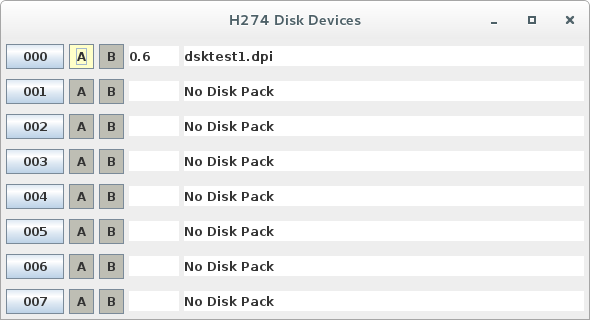
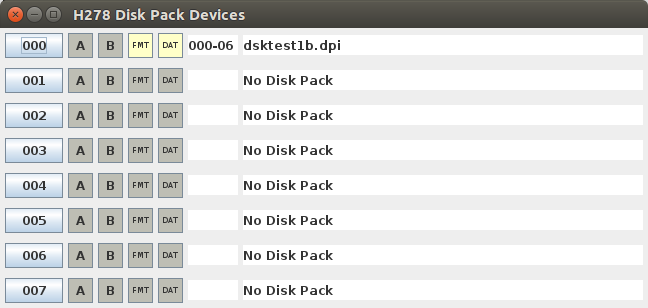
More corrections in disk docs

Changed region(s): [[0.0, 0.0, 1.0, 1.0]]

diff --git a/hw2000/docs/h274disks.html b/hw2000/docs/h274disks.html
@@ -16,6 +16,13 @@ Some details are lacking regarding various command specifics.
 and raised to the top, using the Front Panel menu "I/O" and selecting Disks.
 Closing the window only hides it, having no effect on the operation of the drives.
 
+<P>A full set of PERMIT buttons is provided for each drive: "A", "B",
+"FMT" (format), and "DAT" (data). The buttons toggle when clicked,
+illuminated means PERMIT writing. FMT allows formatting of tracks.
+DAT allows writing of data records on tracks. A and B allow
+finer-grained control over writing of records that were formatted
+with A/B flags.
+
 <P>Due to lack of detailed information about these devices,
 the following has been assumed until more information is available:
 <UL>
@@ -30,12 +37,24 @@ the address register and read/write data only.
 <LI>SEARCH AND READ/WRITE NEXT commmands will increment the record number and
 locate the record identified in
 the address register and read/write data only.
+This variation of the command will follow Track Linking Records automatically.
 <LI>EXTENDED versions operate on more than one record, governed by the
 size of the buffer (RM in memory). This variation of the command, in the case
 of SEARCH AND versions, will follow Track Linking Records automatically.
+Termination of command variations is as follow:
+<UL><TABLE BORDER>
+<TR><TH>Command</TH><TH>Normal Termination</TH><TH>EXTENDED Termination</TH></TR>
+<TR><TD>READ/WRITE</TD><TD>Record or RM</TD><TD>End of Track or RM</TD></TR>
+<TR><TD>READ/WRITE INITIAL</TD><TD>Record or RM</TD><TD>End of Track or RM</TD></TR>
+<TR><TD>SEARCH READ/WRITE</TD><TD>Record or RM</TD><TD>Error or RM*</TD></TR>
+<TR><TD>SEARCH READ/WRITE NEXT</TD><TD>Record or RM*</TD><TD>Error or RM*</TD></TR>
+</TABLE></UL> * Command Follows TLR. Others return TLR as data.
 <LI>A transfer of 0 characters,
 with no error indicated, implies that
 there are no more records in the cylinder (end of TLR chain).
+This may be a false-positive, it is likely that EOF had to be manually
+indicated by the data (i.e. a "&#9633;EOD&#162;" item indicated the program should stop)
+in which case a program that ran off the end of a file would get and error.
 </UL>
 
 <P>The description of PDT for Disk Devices shows no method of selecting a
@@ -54,16 +73,16 @@ is assumed to be the bottle-neck and only one disk operation can be active
 at a time (i.e. the control has the Address Register as well as drive selector).
 The programmer must ensure that multiple disk operations do not collide.
 
-<P>Disk geometry is set as 203 cylinders of 20 tracks (heads, surfaces)
-with 4700 raw characters
-per track. Each record consumes 11 additional characters to the record length.
-Raw capacity of a disk pack is 19 million characters.
-The image file format consists of 4060 blocks of 4700 bytes each, representing
+<P>Disk geometry is set as for Model 278 drives:
+203 cylinders of 20 tracks (heads, surfaces) with 10400 raw characters per track.
+Each record consumes 11 additional characters to the record length.
+Raw capacity of a disk pack is 42 million characters.
+The image file format consists of 4060 blocks of 10000 bytes each, representing
 the tracks. The first 20 blocks (tracks) represent the first cylinder. 
 Within a track, data is laid out starting with a 1-byte Address Mark followed
 by the header (FCCTTRRDL) followed by a 1-byte Data Mark, then DL bytes of
 data followed by either another Address Mark or an "end of track mark".
-Bytes from the End Mark to 4700th byte are ignored, although format commands
+Bytes from the End Mark to 10000th byte are ignored, although format commands
 can write there. The file size grows as tracks get formatted, with "non-existent"
 data effectively being "unformatted".
 
@@ -71,12 +90,15 @@ data effectively being "unformatted".
 drive number (000 - 007). Clicking this button opens a file dialog window
 for selecting the disk image to be mounted (clicking Cancel will leave no
 image mounted).
+Additionally, "FMT" and "DAT" buttons permit writing of track format
+and record data, respectively.
 In addition, "A" and "B" buttons exist to provide values to match
-against the A-File and B-File bits in record headers. Since no information
-has been found on how these bits were used on real hardware,
-use of these bits is currently not implemented.
+against the A-File and B-File bits in record headers.
+These bits are treated as a mask, and "0" is always writeable (if "DAT" permit is on).
+So, if a record header has AB as "10", then that record can be written (only)
+if "A" is ON, but "B" may be ON or OFF (don't-care).
 <P>Active drives will show current head position/selection
-as Cylinder.Track.
+as Cylinder-Track, e.g. "000-06" for cylinder 0 head 6.
 
 <P>There is mention in the documentation of status bits in the control
 address register:
@@ -90,13 +112,16 @@ are not used:
 <UL>
 <LI>cylinder max (known) value 0312
 <LI>track max 0023 (20 surfaces on 11-platter disk packs)
-<LI>record max 0346 (practical limit for 4602 character tracks)
+<LI>record max 0733 (practical limit for 10400 character tracks,
+record length equals header length)
 </UL>
-Uncertain which bits were status, and what statuses were provided. It would be logical
+Uncertain which bits were status
+(or if an addition character existed in the address register),
+and what statuses were provided. It would be logical
 to choose the high-order character of the track (TT), since no known disk technology
-of the time had more than 11 platter disk packs. Cylinder and record values are
-based on recording/stepping technology and are not tied (as much) to physical
-characteristics of disk packs,
+of the time had more than 11 platter disk packs (except Models 260/261?).
+Cylinder and record values are based on recording/stepping technology
+and are not tied (as much) to physical characteristics of disk packs,
 and thus could (and did) increase over time as technology advanced (limited
 only by magnetic surface quality of the disk packs).
 

diff --git a/hw2000/www/h274disks.html b/hw2000/www/h274disks.html
@@ -73,16 +73,16 @@ is assumed to be the bottle-neck and only one disk operation can be active
 at a time (i.e. the control has the Address Register as well as drive selector).
 The programmer must ensure that multiple disk operations do not collide.
 
-<P>Disk geometry is set as 203 cylinders of 20 tracks (heads, surfaces)
-with 4700 raw characters
-per track. Each record consumes 11 additional characters to the record length.
-Raw capacity of a disk pack is 19 million characters.
-The image file format consists of 4060 blocks of 4700 bytes each, representing
+<P>Disk geometry is set as for Model 278 drives:
+203 cylinders of 20 tracks (heads, surfaces) with 10400 raw characters per track.
+Each record consumes 11 additional characters to the record length.
+Raw capacity of a disk pack is 42 million characters.
+The image file format consists of 4060 blocks of 10000 bytes each, representing
 the tracks. The first 20 blocks (tracks) represent the first cylinder. 
 Within a track, data is laid out starting with a 1-byte Address Mark followed
 by the header (FCCTTRRDL) followed by a 1-byte Data Mark, then DL bytes of
 data followed by either another Address Mark or an "end of track mark".
-Bytes from the End Mark to 4700th byte are ignored, although format commands
+Bytes from the End Mark to 10000th byte are ignored, although format commands
 can write there. The file size grows as tracks get formatted, with "non-existent"
 data effectively being "unformatted".
 
@@ -90,12 +90,15 @@ data effectively being "unformatted".
 drive number (000 - 007). Clicking this button opens a file dialog window
 for selecting the disk image to be mounted (clicking Cancel will leave no
 image mounted).
+Additionally, "FMT" and "DAT" buttons permit writing of track format
+and record data, respectively.
 In addition, "A" and "B" buttons exist to provide values to match
-against the A-File and B-File bits in record headers. Since no information
-has been found on how these bits were used on real hardware,
-use of these bits is currently not implemented.
+against the A-File and B-File bits in record headers.
+These bits are treated as a mask, and "0" is always writeable (if "DAT" permit is on).
+So, if a record header has AB as "10", then that record can be written (only)
+if "A" is ON, but "B" may be ON or OFF (don't-care).
 <P>Active drives will show current head position/selection
-as Cylinder.Track.
+as Cylinder-Track, e.g. "000-06" for cylinder 0 head 6.
 
 <P>There is mention in the documentation of status bits in the control
 address register:
@@ -109,13 +112,16 @@ are not used:
 <UL>
 <LI>cylinder max (known) value 0312
 <LI>track max 0023 (20 surfaces on 11-platter disk packs)
-<LI>record max 0346 (practical limit for 4602 character tracks)
+<LI>record max 0733 (practical limit for 10400 character tracks,
+record length equals header length)
 </UL>
-Uncertain which bits were status, and what statuses were provided. It would be logical
+Uncertain which bits were status
+(or if an addition character existed in the address register),
+and what statuses were provided. It would be logical
 to choose the high-order character of the track (TT), since no known disk technology
-of the time had more than 11 platter disk packs. Cylinder and record values are
-based on recording/stepping technology and are not tied (as much) to physical
-characteristics of disk packs,
+of the time had more than 11 platter disk packs (except Models 260/261?).
+Cylinder and record values are based on recording/stepping technology
+and are not tied (as much) to physical characteristics of disk packs,
 and thus could (and did) increase over time as technology advanced (limited
 only by magnetic surface quality of the disk packs).
 

diff --git a/hw2000/docs/h204magtape.html b/hw2000/docs/h204magtape.html
@@ -30,6 +30,11 @@ for selecting the tape image to be mounted (pressing Cancel will leave no
 image mounted).
 In addition, a rewind button exists. Active drives will show current 
 tape position in characters.
+Also, a PERMIT button/indicator allows control over writing to the tape.
+If the tape was mounted with a "Write Ring" (checkbox in the file selction dialog),
+then clicking PERMIT will toggle between write (illuminated) and protected (off).
+If the PERMIT indicator will not light when the button is clicked, the tape was
+mounted without "Write Ring".
 
 
 </BODY>
